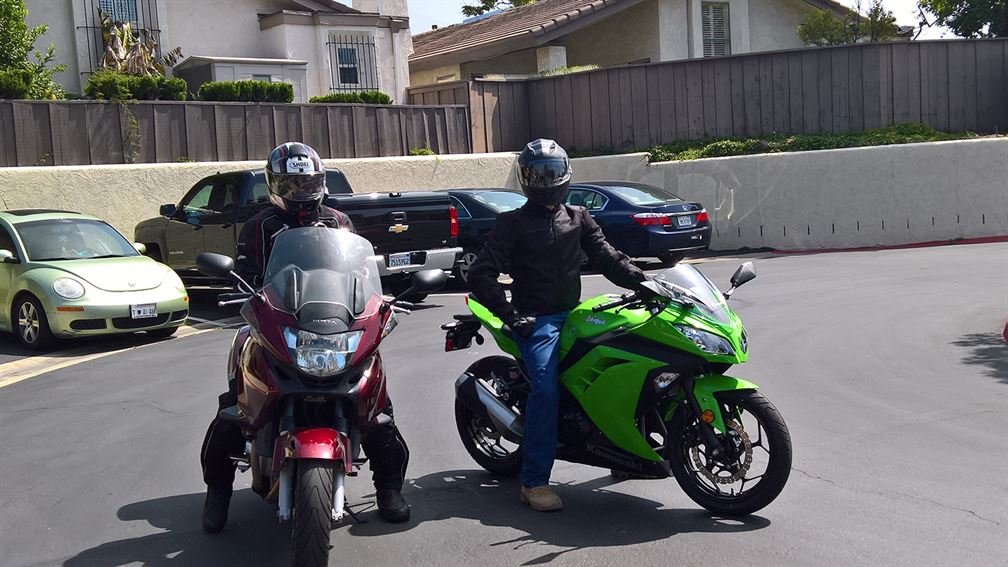
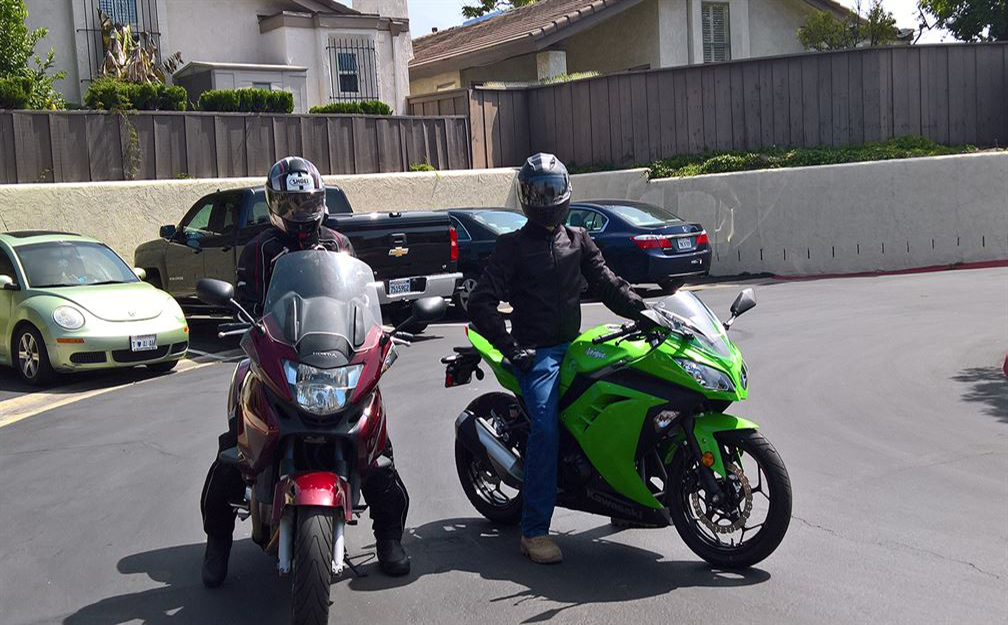
Small adjustments to sizing

diff --git a/life.md b/life.md
@@ -10,7 +10,7 @@ layout: life
   {% assign pageurl = page.url | replace: 'index.html', '' %}
   {% if file.path contains pageurl %}
     {% if file.extname == '.jpg' or file.extname == '.jpeg' or file.extname == '.JPG' or file.extname == '.JPEG' %}
-<li><a class="lightbox-image" href="{{site.url}}{{ file.path }}"><img loading="lazy" class="lightbox-image" height=640 width=480 src="{{site.url}}{{ file.path }}" /></a></li>
+<li><a class="lightbox-image" href="{{site.url}}{{ file.path }}"><img loading="lazy" class="lightbox-image" src="{{site.url}}{{ file.path }}" /></a></li>
     {% endif %}
   {% endif %}
 {% endfor %}
